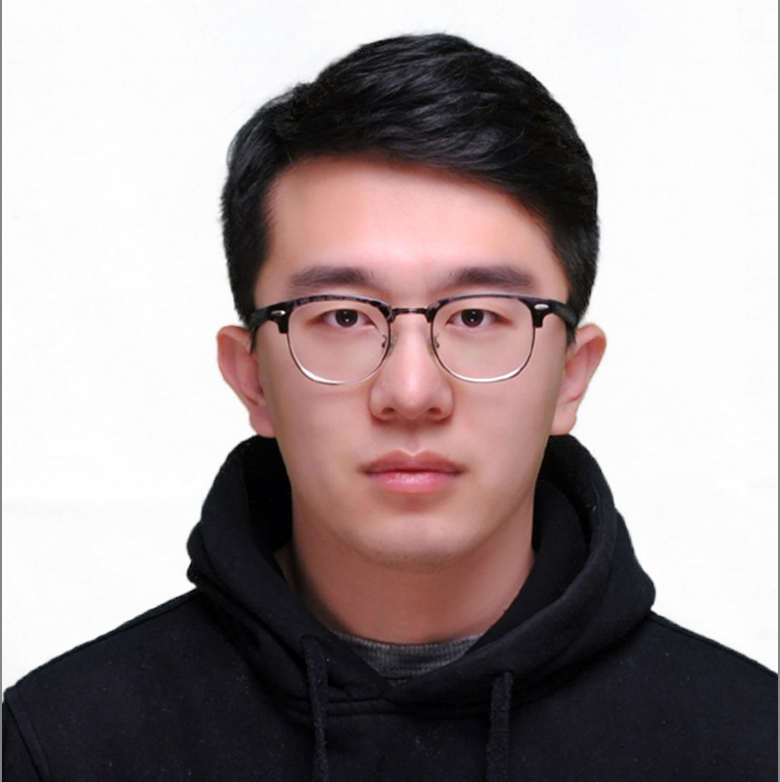
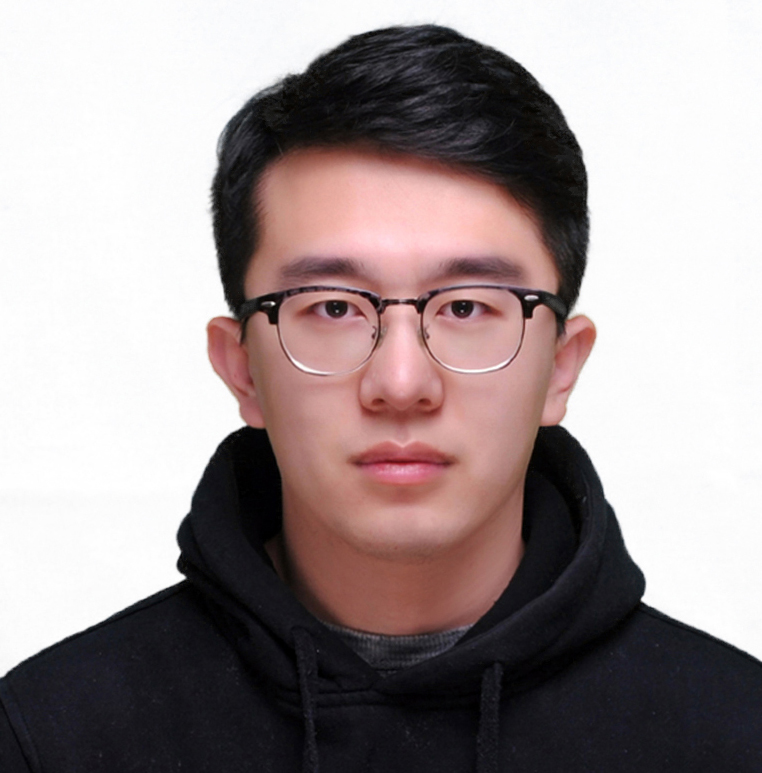
add team member info page

diff --git a/src/teamData.js b/src/teamData.js
@@ -9,7 +9,7 @@ import yingbin from './images/Yingbin.jpg';
 import yuyao from './images/yuyao.jpeg';
 // import shijun from './images/shijun.jpg';
 // import jialiang from './images/jialiang.png';
-// import xiaobo from './images/XiaoboXia.jpg';
+import xiaobo from './images/XiaoboXia.jpg';
 // import kangzhao from './images/kangzhao.jpeg';
 // import xuefeng from './images/xuefeng.jpg';
 // import chaojian from './images/ChaojianYu.jpeg';
@@ -23,10 +23,10 @@ var teamData = [
 	"image_url": yingbin,
 	"address": "Sydeny, Australia",
 	"email": "ybai6430@uni.sydney.edu.au",
-	"linkedin": "aaa",
+	"linkedin": "",
 	"github": "https://github.com/bybeye/",
-	"google_scholar": "aaa",
-	"about_me": "My name is Yingbin Bai, came from China.",
+	"google_scholar": "",
+	"about_me": "My name is Yingbin Bai, a PhD student of The Univerisity of Sydney. My supervisor is Prof.Tongliang Liu. Before I came to The Univerisity of Sydney, I have been worked in the industry for many years, focusing on using IT techniques to address agriculture problems. I believe Machine learning will become a new key to improve agriculture production. In my spare time, I love traveling and taking pictures.",
 	"education":[
             {"uni": "The University of Sydney",
              "time": "Oct, 2020 - ",
@@ -37,75 +37,133 @@ var teamData = [
              "speciality": "Master of IT",
             },
             {"uni": "Liaoning University",
-             "time": "",
-             "speciality": "Information Management and Information System",
+             "time": "Sep, 2003 - July, 2007",
+             "speciality": "Bachelor of Management",
             },
 	],
-	"interests": "My research interests is Unsupervised Representation Learning. If you have any ideas or meet any problems, you're more than welcome to discuss them.",
+	"interests": "My research interests lie in Weakly supervised learning and Unsupervised Representation Learning. If you have any ideas or meet any problems, you're more than welcome to discuss them.",
 	"activity":[
-	    {"content": "I went to CVPR",
-	     "year": 2020,
-	    },
+	    
 	],
 	"honors": [
-	    {"content": "sholarship",
+            {"content": "Postgraduate Research Scholarship in Unsupervised Representation Learning",
+	     "year": 2020,
+	    },
+	    {"content": "Faulty of Engineering International Tuition Fee Research Scholarship",
 	     "year": 2020,
 	    },
 	],
 	"publications":[
-	    {"title":"Me-Momentum",
+	    {"title":"ME-MOMENTUM: EXTRACTING HARD CONFIDENT EXAMPLES FROM NOISILY LABELED DATA",
 	     "authors":"Yingbin Bai, Tongliang Liu",
 	     "conference":"",
 	     "code":"",
-	     "pdf":"",
+	     "pdf":"https://openreview.net/pdf?id=ELiYxj9JlyW",
 	     "highlight":"",
 	    },
 	],
 
     },
     {
-    "id": 10,
-    "name": "Yu Yao",
-    "type": "PhD Student",
-    "image_url": yuyao,
-    "address": "Sydeny, Australia",
-    "email": "",
-    "linkedin": "",
-    "github": "",
-    "google_scholar": "",
-    "about_me": "My name is ...",
-    "education": [
-        {
-            "uni": "The University of Sydney",
-            "time": "Feb, xxxx - Aug, xxxx",
-            "speciality": "Master of IT"
-        }
-    ],
-    "interests": "My study interests is ...",
-    "activity": [
-        {
-            "content": "I went to ",
-            "year": "2020"
-        }
-    ],
-    "honors": [
-        {
-            "content": "Sholarship",
-            "year": "2020"
-        }
-    ],
-    "publications": [
-        {
-            "title": "",
-            "authors": "",
-            "conference": "",
-            "code": "",
-            "pdf": "",
-            "highlight": ""
-        }
-    ]
+        "id": 10,
+        "name": "Yu Yao",
+        "type": "PhD Student",
+        "image_url": yuyao,
+        "address": "Sydeny, Australia",
+        "email": "",
+        "linkedin": "",
+        "github": "",
+        "google_scholar": "",
+        "about_me": "My name is ...",
+        "education": [
+            {
+                "uni": "The University of Sydney",
+                "time": "Feb, xxxx - Aug, xxxx",
+                "speciality": "Master of IT"
+            }
+        ],
+        "interests": "My study interests is ...",
+        "activity": [
+            {
+                "content": "I went to ",
+                "year": "2020"
+            }
+        ],
+        "honors": [
+            {
+                "content": "Sholarship",
+                "year": "2020"
+            }
+        ],
+        "publications": [
+            {
+                "title": "",
+                "authors": "",
+                "conference": "",
+                "code": "",
+                "pdf": "",
+                "highlight": ""
+            }
+        ]
+    },
+    {
+        "id": 14,
+        "name": "Xiaobo Xia",
+        "type": "PhD Student",
+        "image_url": xiaobo,
+        "address": "Sydeny, Australia",
+        "email": "xiaoboxia.uni@gmail.com",
+        "linkedin": "",
+        "github": "https://github.com/xiaoboxia",
+        "google_scholar": "",
+        "about_me": "Hi, I am Xiaobo Xia. I am a coming PhD student in USYD, supervised by Prof.Tongliang Liu. I just obtained my Bachelor’s degree from Xidian University. I had the privilege of working with Prof.Nannan Wang in XDU. I love playing basketball and board games in spare time. I have been playing LoL a lot. Find me out! ",
+        "education": [
+            {
+                "uni": "Xidian University",
+                "time": "Sep, 2016 - Jun, 2020",
+                "speciality": "Bachelor of Communication Engineering"
+            }
+        ],
+        "interests": "My study interests lie in machine learning and deep representation learning, with a particular emphasis on weakly supervised learning. My long-term goal is to make intelligent machines trustworthy.",
+        "activity": [
+            {
+                "content": "Conference Reviewer/Program Committee: CVPR 2021, NeurIPS 2020, ICML 2020.",
+                "year": "2020"
+            },
+            {
+                "content": "Invited Talk, “Part-dependent Label Noise: Towards Instance-dependent Label Noise”, ACML 2020 Workshop on Weakly-supervised Representation Learning, Online.",
+                "year": "11/2020"
+            }
+        ],
+        "honors": [
+            {
+                "content": "Faculty of Engineering Research Scholarship, University of Sydney",
+                "year": "2020"
+            },
+            {
+                "content": "China National Scholarship",
+                "year": "2019"
+            }
+        ],
+        "publications": [
+            {
+                "title": "Part-dependent Label Noise: Towards Instance-dependent Label Noise",
+                "authors": "Xiaobo Xia, Tongliang Liu, Bo Han, Nannan Wang, Mingming Gong, Haifeng Liu, Gang Niu, Dacheng Tao, Masashi Sugiyama",
+                "conference": "NeurIPS 2020",
+                "code": "https://github.com/xiaoboxia/Part-dependent-label-noise",
+                "pdf": "https://arxiv.org/pdf/2006.07836.pdf",
+                "highlight": "Spotlight"
+            },
+            {
+                "title": "Are Anchor Points Really Indispensable in Label-Noise Learning?",
+                "authors": "Xiaobo Xia, Tongliang Liu, Nannan Wang, Bo Han, Chen Gong, Gang Niu, Masashi Sugiyama",
+                "conference": "NeurIPS 2019",
+                "code": "https://github.com/xiaoboxia/T-Revision",
+                "pdf": "https://arxiv.org/pdf/1906.00189.pdf",
+                "highlight": ""
+            }
+        ]
     }
-
 ];
 
 export default teamData;

diff --git a/src/TeamMember.js b/src/TeamMember.js
@@ -30,7 +30,7 @@ class TeamMember extends React.Component{
 		}
 		return null;
 	    }).filter(item => item != null)[0];
-        console.dir(person);
+        
 
         const listUnis = person.education.map((item, i) =>
             <MemEducation key={i} image_url={item.image_url} uni={item.uni} time={item.time} speciality={item.speciality}/>
@@ -45,7 +45,7 @@ class TeamMember extends React.Component{
         );
 
         const listPublications = person.publications.map((item, i) =>
-            <Paper  key={i} title={item.title} authors={item.authors} pdf={item.pdf} conference={item.conference} highlight={item.hightlight}/>
+            <Paper  key={i} title={item.title} authors={item.authors} pdf={item.pdf} conference={item.conference} highlight={item.highlight} code={item.code}/>
         );
 
 
@@ -104,7 +104,7 @@ class TeamMember extends React.Component{
 		      
 		    </div>
 		  </div>
-		  <div className="col-12 col-md-6 h-100 nopadding">
+		  <div className="col-12 col-md-7 h-100 nopadding">
 		    <div className="r_info">
 		      <div className="row">
 			<h2>About me</h2>

diff --git a/src/Team.js b/src/Team.js
@@ -71,7 +71,7 @@ class Team extends React.Component{
 				<Person img={sonhua} name="Songhua Wu"/>
 				<Person id="12" img={yingbin} name="Yingbin Bai"/>
 			        <Person img={chaojian} name="Chaojian Yu" />
-				<Person img={xiaobo} name="Xiaobo Xia"/>
+				<Person id="14" img={xiaobo} name="Xiaobo Xia"/>
 				<Person img={yuxuan} name="Yuxuan Du" description="(Co-supervised)"/>
 				<Person img={xuefeng} name="Xuefeng Li" description="(Co-supervised)"/>
 				<Person img={shijun} name="Shijun Cai" description="(Co-supervised)"/>
